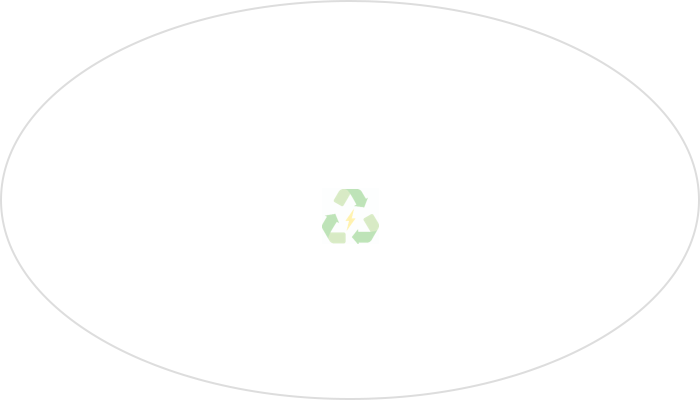
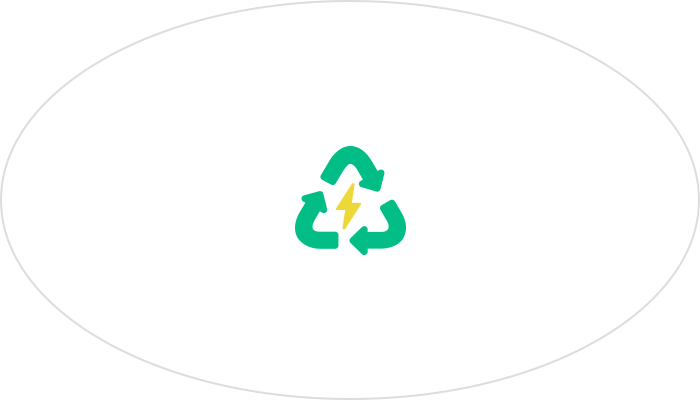
이미지/ 아이콘 추가 완료

Changed region(s): [[0.42, 0.36, 0.6, 0.63]]

diff --git a/views/overview01.html b/views/overview01.html
@@ -134,7 +134,7 @@
               <li>
                 <div class="inner">
                   <div class="icon">
-                    <img src="" alt="">
+                    <img src="/source/img/overview01_02_graph_icon01.png" alt="">
                   </div>
                   <p class="title">수소경제</p>
                   <p class="text">
@@ -146,7 +146,7 @@
               <li>
                 <div class="inner">
                   <div class="icon">
-                    <img src="" alt="">
+                    <img src="/source/img/overview01_02_graph_icon02.png" alt="">
                   </div>
                   <p class="title">발전부문 탈탄소화</p>
                   <p class="text">
@@ -158,7 +158,7 @@
               <li>
                 <div class="inner">
                   <div class="icon">
-                    <img src="" alt="">
+                    <img src="/source/img/overview01_02_graph_icon03.png" alt="">
                   </div>
                   <p class="title">에너지 효율향상</p>
                   <p class="text">
@@ -170,7 +170,7 @@
               <li>
                 <div class="inner">
                   <div class="icon">
-                    <img src="" alt="">
+                    <img src="/source/img/overview01_02_graph_icon04.png" alt="">
                   </div>
                   <p class="title">CCU</p>
                   <p class="text">
@@ -182,7 +182,7 @@
               <li>
                 <div class="inner">
                   <div class="icon">
-                    <img src="" alt="">
+                    <img src="/source/img/overview01_02_graph_icon05.png" alt="">
                   </div>
                   <p class="title">최종소비 전기화</p>
                   <p class="text">
@@ -194,7 +194,7 @@
               <li>
                 <div class="inner">
                   <div class="icon">
-                    <img src="" alt="">
+                    <img src="/source/img/overview01_02_graph_icon06.png" alt="">
                   </div>
                   <p class="title">대체 연·원료</p>
                   <p class="text">
@@ -214,7 +214,7 @@
             <li>
               <div class="inner">
                 <div class="icon">
-                  <img src="" alt="">
+                  <img src="/source/img/overview01_02_str_icon01.png" alt="">
                 </div>
                 <p class="title">혁신공정</p>
                 <p class="text">
@@ -226,7 +226,7 @@
             <li>
               <div class="inner">
                 <div class="icon">
-                  <img src="" alt="">
+                  <img src="/source/img/overview01_02_str_icon02.png" alt="">
                 </div>
                 <p class="title">원료혁신</p>
                 <p class="text">
@@ -238,7 +238,7 @@
             <li>
               <div class="inner">
                 <div class="icon">
-                  <img src="" alt="">
+                  <img src="/source/img/overview01_02_str_icon03.png" alt="">
                 </div>
                 <p class="title">연료전환</p>
                 <p class="text">
@@ -250,7 +250,7 @@
             <li>
               <div class="inner">
                 <div class="icon">
-                  <img src="" alt="">
+                  <img src="/source/img/overview01_02_str_icon04.png" alt="">
                 </div>
                 <p class="title">자원순환</p>
                 <p class="text">
@@ -262,7 +262,7 @@
             <li>
               <div class="inner">
                 <div class="icon">
-                  <img src="" alt="">
+                  <img src="/source/img/overview01_02_str_icon05.png" alt="">
                 </div>
                 <p class="title">KET(핵심공통기술)</p>
                 <p class="text">

diff --git a/views/overview02.html b/views/overview02.html
@@ -95,7 +95,7 @@
               <li class="color01 color_line01">
                 <div class="inner" data-num="01">
                   <div class="icon">
-                    <img src="" alt="">
+                    <img src="/source/img/overview02_01_col_icon01.png" alt="">
                   </div>
                   <div class="text">
                     미래경제<br>
@@ -106,7 +106,7 @@
               <li class="color02 color_line02">
                 <div class="inner" data-num="02">
                   <div class="icon">
-                    <img src="" alt="">
+                    <img src="/source/img/overview02_01_col_icon02.png" alt="">
                   </div>
                   <div class="text">
                     전환경제<br>
@@ -117,7 +117,7 @@
               <li class="color03 color_line03">
                 <div class="inner" data-num="03">
                   <div class="icon">
-                    <img src="" alt="">
+                    <img src="/source/img/overview02_01_col_icon03.png" alt="">
                   </div>
                   <div class="text">
                     순환경제<br>
@@ -128,7 +128,7 @@
               <li class="color04 color_line04">
                 <div class="inner" data-num="04">
                   <div class="icon">
-                    <img src="" alt="">
+                    <img src="/source/img/overview02_01_col_icon04.png" alt="">
                   </div>
                   <div class="text">
                     생활경제<br>
@@ -139,7 +139,7 @@
               <li class="color05 color_line05">
                 <div class="inner" data-num="05">
                   <div class="icon">
-                    <img src="" alt="">
+                    <img src="/source/img/overview02_01_col_icon05.png" alt="">
                   </div>
                   <div class="text">
                     탄소중립<br>

diff --git a/source/css/normal.css b/source/css/normal.css
@@ -608,7 +608,7 @@
   .overview02_01_col_ul01 li.color05 .inner {background-color: #85ca63;}
   .overview02_01_col_ul01 li .inner {border-radius: 30px; display: flex; align-items: center; width: 100%; height: 200px; position: relative; padding-left: 32px; box-shadow: 0 0 18px rgba(0,0,0,0.08);}
   .overview02_01_col_ul01 li .inner::before {content: attr(data-num); font-weight: 700; font-size: 100px; color: #fff; opacity: 0.05; position: absolute; bottom: -22px; right: 7px;}
-  .overview02_01_col_ul01 li .inner .icon {width: 80px; height: 80px; border-radius: 50%; background-color: #fff; margin-right: 29px;}
+  .overview02_01_col_ul01 li .inner .icon {width: 80px; height: 80px; border-radius: 50%; background-color: #fff; margin-right: 29px; display: flex; align-items: center; justify-content: center;}
   .overview02_01_col_ul01 li .inner .text {font-weight: 700; font-size: 30px; color: #fff; text-align: left;}
   .overview02_01_col_ul01 li .inner .text span {font-weight: 400; font-size: 18px;}
 

diff --git a/views/index.html b/views/index.html
@@ -64,7 +64,7 @@
     <div class="pg_tab_wrap">
       <div class="wrapper">
         <ul class="i-col-0 bg_tab">
-          <li><a href="">사업개요</a></li>
+          <li><a href="/views/overview01.html">사업개요</a></li>
           <li><a href="/views/worldTrend01.html">세계동향</a></li>
           <li><a href="/views/board.html">보도자료</a></li>
           <li><a href="/views/board.html">커뮤니티</a></li>
@@ -151,7 +151,7 @@
           <li>
             <div class="main_goal_item">
               <div class="icon">
-                <img src="/source/img/icon-goal03.png" alt="생활경제">
+                <img src="/source/img/icon-goal04.png" alt="생활경제">
               </div>
               <div class="text">
                 <p class="title">생활경제</p>
